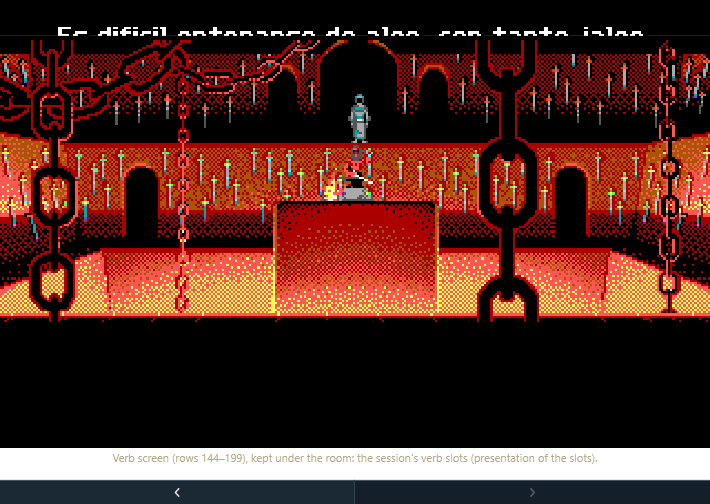
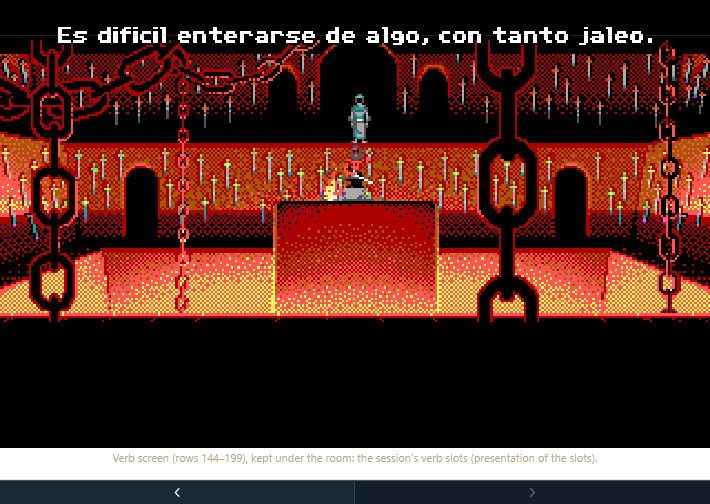
Draw whole the first line that starts on the text line
Room 41's two-line messages (the sword, object 634 verb 0x36) print at y 12
and 20. ScummVM clips the first line at the text screen's row 15, so only the
second line was readable. The line now runs on into the room's top rows
(reading of the original, labelled; the user chose it). TextLineCheck has a
sword step: 0 failures. Tests 230/230.

Changed region(s): [[0.062, 0.0595, 0.9296, 0.0893]]

diff --git a/src/SCUMMexplorer.Core/Rendering/LoomCharset.cs b/src/SCUMMexplorer.Core/Rendering/LoomCharset.cs
@@ -127,7 +127,8 @@ public static class LoomMessageRenderer
     /// <summary>
     /// ScummVM <c>initScreens(16, 144)</c> for v3 (<c>gfx.cpp</c>): the text screen is rows 0–15,
     /// the room (main) screen rows 16–143, so screen row y is room row y − 16, and the verb
-    /// screen rows 144–199. <c>printChar</c> draws at <c>_top - vs-&gt;topline</c> and clips at the screen's bottom.
+    /// screen rows 144–199. <c>printChar</c> draws at <c>_top - vs-&gt;topline</c> and clips at the screen's bottom
+    /// (the text screen's lines are the exception here: they run on into the room, see <c>PrintChar</c>).
     /// </summary>
     public const int RoomScreenTop = 16;
     public const int VerbScreenTop = 144;
@@ -213,9 +214,12 @@ public static class LoomMessageRenderer
         if (glyph == '@') return false;
         var width = charset.CharWidth(glyph);
         if (left + width > right + 1) return false;
-        // findVirtScreen(top): the text, room or verb screen, each clipped at its bottom.
+        // findVirtScreen(top): the text, room or verb screen, each clipped at its bottom. Exception (reading, not
+        // ScummVM): a line whose top is in the text screen runs on into the room's top rows. ScummVM clips it at
+        // row 15, which leaves the first line of Room 41's two-line messages (script 016 with y 12) at its top
+        // 4 rows; the original is read as drawing the whole line.
         var screenTop = top >= VerbScreenTop ? VerbScreenTop : top >= RoomScreenTop ? RoomScreenTop : 0;
-        var screenBottom = top >= VerbScreenTop ? ScreenHeight : top >= RoomScreenTop ? VerbScreenTop : RoomScreenTop;
+        var screenBottom = top >= VerbScreenTop ? ScreenHeight : VerbScreenTop;
         if (top < 0 || top >= ScreenHeight) return false;
         DrawBits1(layer, charset.Glyph(glyph), left, top, width, LoomCharset.GlyphRows, color, shadow, screenTop, screenBottom);
         left += width;

diff --git a/.verification/text-line/TextLineCheck/Program.cs b/.verification/text-line/TextLineCheck/Program.cs
@@ -82,6 +82,25 @@ internal static class Program
                     $"the verb screen starts where the room ends (y {verbTop:0.#} vs {viewTop + viewport.ActualHeight:0.#}): one screen, no gap");
                 Save((FrameworkElement)window.FindName("RoomDisplayGroup"), "room41-before.png");
 
+                // The sword (object 634 verb 0x36): two lines at y 12 and 20. Line 1 starts on the text line and is
+                // drawn whole (reading of the original; ScummVM clips it at row 15), so its lower rows reach room rows
+                // 0–3, which line 2 (from room row 4) cannot.
+                Session().ActivateObjectVerb(634, 0x36);
+                Call("UpdateMessageLayer");
+                await Task.Delay(300);
+                window.UpdateLayout();
+                foreach (var message in Session().Messages.OnScreen) report.Add($"   on screen: \"{message.Text.Replace("\n", " / ")}\" at ({message.X}, {message.Y}) from {message.Source}");
+                var roomText = ((Image)window.FindName("RoomMessageOverlay")).Source as BitmapSource;
+                var topRowsLit = 0;
+                if (roomText is not null)
+                {
+                    var pixels = new byte[roomText.PixelWidth * 4 * 4];
+                    roomText.CopyPixels(new Int32Rect(0, 0, roomText.PixelWidth, 4), pixels, roomText.PixelWidth * 4, 0);
+                    for (var i = 3; i < pixels.Length; i += 4) if (pixels[i] != 0) topRowsLit++;
+                }
+                Check(topRowsLit > 30, $"the sword's first line runs on into the room's rows 0–3 ({topRowsLit} lit pixels there)");
+                Save((FrameworkElement)window.FindName("RoomDisplayGroup"), "room41-look-634-sword.png");
+
                 Session().ActivateObjectVerb(632, 0x36);
                 Call("UpdateMessageLayer");
                 await Task.Delay(300);

diff --git a/tests/SCUMMexplorer.Tests/LoomCharsetTests.cs b/tests/SCUMMexplorer.Tests/LoomCharsetTests.cs
@@ -58,18 +58,19 @@ public sealed class LoomCharsetTests
     }
 
     [Fact]
-    public void EachVirtualScreenClipsTextAtItsOwnBottom()
+    public void RoomAndVerbScreensClipTextAtTheirBottomAndTextLineRunsOn()
     {
         if (!File.Exists(Path.Combine(Folder, "99.LFL"))) return;
         var charset = LoomCharset.TryLoad(Folder, 0, out _)!;
         // initScreens(16, 144): the text screen is rows 0–15 and the room screen rows 16–143.
-        // A line whose top is in the text screen stops at row 15 (printChar clips at vs->h).
+        // ScummVM clips a line whose top is in the text screen at row 15; the app draws it whole (reading of
+        // the original, Room 41's y 12), so its glyphs reach past row 15 into the room.
         var glyphs = "AAAA"u8.ToArray();
         LoomMessage At(int y) => new(LoomMessageKind.Drawn, LoomMessageTable.NoActor, 1, [glyphs],
             10, y, false, 0, LoomMessageTable.DefaultRight, 15, null, "test", 0, 0, null);
         var inText = LoomMessageRenderer.Render(At(12), charset).Bounds!.Value;
         Assert.Equal(12, inText.Top);
-        Assert.Equal(LoomMessageRenderer.RoomScreenTop, inText.Bottom);
+        Assert.True(inText.Bottom > LoomMessageRenderer.RoomScreenTop);
         var inRoom = LoomMessageRenderer.Render(At(140), charset).Bounds!.Value;
         Assert.Equal(LoomMessageRenderer.VerbScreenTop, inRoom.Bottom);
     }

diff --git a/docs/LOOM_SCRIPT_MAP.md b/docs/LOOM_SCRIPT_MAP.md
@@ -120,7 +120,7 @@ Last updated 28 September 2026 (M1a: messages, talk delay and `waitFor message` 
 - **Text slots** (ScummVM `decodeParseString`): actor 0xFE uses slot 1 (`drawString`: drawn at once, no delay, stays until the room is redrawn), 0xFD slot 2 (a debug message), 0xFC slot 3 (a message dialog), every other value slot 0 (`actorTalk`). Each print starts from the slot's defaults, and v1–v3 keep the position, height and colour as the defaults afterwards, but not the centring. So a print with no position uses the last print's (ScummVM notes that LOOM needs this). Defaults at the start: (0, 0), height 0, colour 15, right edge 319.
 - **Talk** (ScummVM `actorTalk`, `displayDialog`, `stopTalk`, v3): a print for an actor who is not in the current room shows nothing. Otherwise the text's colour is the actor's `talkColor` (15 after `initActor`; script 017 sets 0x8F for the ego), or the slot's colour for actor 0xFF. `VAR_HAVE_MSG` becomes 0xFF, and `displayDialog` draws the text up to its end or a wait code (`0xFF 0x03`), with a talk delay of 60 jiffies (v3 has no `VAR_DEFAULT_TALK_DELAY`) plus `VAR_CHARINC` (`var[0x025]`, 5 after the boot) per character; new lines add nothing. Each frame the delay goes down by the frame's jiffies (`VAR_TIMER_NEXT`, 6) before the scripts run; at 0, the next chunk shows, or `stopTalk` erases the text and clears `_haveMsg`. `startScene` stops the talk. "Amanecer." (9 characters) lasts 105 jiffies: 17 frames on the screen, gone in the 18th. Modelled 28 Sep (`LoomMessageTable`).
 - **Screen rows** (ScummVM `initScreens(16, 144)` for v3, `gfx.cpp`): three virtual screens: text rows 0–15, room (main) rows 16–143, verb rows 144–199. `printChar` draws at `_top - vs->topline` and clips at the screen's bottom, so a message at screen y is on room row y − 16 ("Amanecer." at y 112 is room row 96), and a line that starts in one screen does not spill into the next. Only v7+ resizes the main screen to the room (`initBGBuffers`), so LOOM shows 128 room rows although its room images are 144 high (Room 02's header: 960 × 144); the last 16 are never on screen (reading). The x coordinate is relative to the camera's left edge (`virtscr[0].xstart`, camera x − 160). ScummVM; used by the renderer and the app since 28 Sep (M1b placed room text 16 rows too low).
-- **Where LOOM's texts land** (decoded, 29 Sep): script 016's argument (the rooms' default y) is 0x10 in most rooms (the room's first row), 0x28, 0x70 or 0x78 in some, 8 in Room 08 and 0x0C in Room 41: only those two start text on the text line (rows 0–15), where a glyph is clipped at row 15 (ScummVM `drawBits1` on the one-buffer text screen), so a line at y 12 shows its top 4 rows. No `print` names a literal y below 16. Talk in cutscenes is often at y 152 (script 046 +0x002F; the opening's cliff lines, script 044 +0x0587), in the verb screen under the picture. The fairy's text in Room 53 is at y 48 (script 044 +0x03F0). The app shows the text line above the room since 29 Sep.
+- **Where LOOM's texts land** (decoded, 29 Sep): script 016's argument (the rooms' default y) is 0x10 in most rooms (the room's first row), 0x28, 0x70 or 0x78 in some, 8 in Room 08 and 0x0C in Room 41: only those two start text on the text line (rows 0–15), where ScummVM clips a glyph at row 15 (`drawBits1` on the one-buffer text screen), so a line at y 12 shows its top 4 rows there. Room 41's two-line messages (for example the sword, object 634 verb 0x36, lines at y 12 and 20) then show little more than their second line. Since 29 Sep the app draws a line that starts on the text line whole, running on into the room's rows 0–3 (reading of the original: the designers would not ship half-hidden first lines; not checked in the original interpreter; the user chose it). No `print` names a literal y below 16. Talk in cutscenes is often at y 152 (script 046 +0x002F; the opening's cliff lines, script 044 +0x0587), in the verb screen under the picture. The fairy's text in Room 53 is at y 48 (script 044 +0x03F0). The app shows the text line above the room since 29 Sep.
 - **Object names and the close-up** (decoded, scripts 007/008): when the chosen object changes, script 008 turns verb 0x36 off and runs `drawBox 232, 152, 312, 192, 0` (a black box over the close-up and name area), then turns verb 0x36 on at (248, 152) with the new object's close-up (`var[0x068]`, from its verb 0x39). Script 007 +0x001E (or 008 +0x004E) prints the name with `print 0xFE`, centred at (272, 181), over the close-up's lower edge. ScummVM `o5_drawBox` paints the box on its virtual screen, covering drawn strings; the session models that since 28 Sep (`LoomMessageTable.DrawBox`).
 - **Talk-stop key** (ScummVM `processKeyboard`, '.'): sets `_talkDelay` to 0, so the next frame ends the message or shows its next chunk. The app sends it when the user clicks talk text (assumed input). ScummVM.
 - **Colour bits** (ScummVM `CharsetRendererV3::setColor` for LOOM v3): the low 4 bits are the EGA colour; 0x80 adds a shadow and 0x40 an outline in colour 0 (not for drawn strings in the room screen). The ego's 0x8F is white with a shadow.

diff --git a/.verification/text-line/validation.md b/.verification/text-line/validation.md
@@ -54,3 +54,44 @@ The user's report (29 Sep): text could show where the game shows it, over the ro
 - PresentationCheck and CameraPanCheck: 0 failures.
 - `dotnet build SCUMMexplorer.slnx`: 0 warnings. Tests: 230/230.
 - Skipped (no change to clicks, room loads or playback): DoorwayClickCheck, the audit, Blockers, the playback checks.
+
+## Follow-up: whole first lines (29 September)
+
+The user's report: "when I select the sword, I only see a line of text that seems to be a continuation of another".
+The user also confirmed the cutscene sound (AdLib music; the sword's effect is the PC speaker rendition, as labelled)
+and that the conversations in the verb area (y 152, the game's position) look right.
+
+### What the evidence says
+
+- The sword is Room 41's object 634; verb 0x36 prints `print 0x01, [center; text, "Cuando termine de darle golpes,
+  menuda\xFF\x01espada va a tener."]` with no position, so it takes text slot 0's default: y 12 (Room 41's entry,
+  `startScript 0x10, [0x000C]`). Line 1 is at y 12 (text line), line 2 at y 20 (the room's row 4).
+- ScummVM draws each glyph in the screen that holds `_top` and clips at that screen's bottom
+  (`CharsetRendererV3::printChar`, `CharsetRendererPC::drawBits1`: `y + drawTop < dest.h`; the text screen is 16
+  rows, `initScreens(16, 144)`). No LOOM-specific adjustment exists in `string.cpp`, `charset.cpp` or `gfx.cpp`. So
+  in ScummVM line 1 keeps its top 4 rows, which the app copied: the user saw only line 2.
+- Reading (not verified in the original interpreter): the designers set y 12 for the forge and would not ship
+  half-hidden first lines, so the original likely drew line 1 whole across the boundary. The user chose to draw it
+  whole.
+
+### What the user now sees
+
+- In Room 41 (and Room 08, the other room whose default y is below 16), a line that starts on the text line is drawn
+  whole: its lower rows cover the room's top rows. The sword now reads "Cuando termine de darle golpes, menuda" /
+  "espada va a tener." ([picture](room41-look-634-sword.png)).
+- Unchanged: the room and verb screens still clip at their own bottoms, as in ScummVM; message positions.
+
+### Changes
+
+- `LoomCharset.cs` (`LoomMessageRenderer.PrintChar`): a glyph whose top is in the text screen is clipped at the
+  room screen's bottom (row 143) instead of row 15. Labelled a reading in the code.
+- `LoomCharsetTests`: the text-screen case now expects the line to reach past row 15.
+- TextLineCheck: a new sword step (object 634 verb 0x36 run directly, an exploration action).
+
+### Verification
+
+- TextLineCheck: 0 failures ([text-line-check.txt](text-line-check.txt)); the sword's first line lights 742 pixels in
+  the room's rows 0–3, where line 2 cannot reach.
+- `dotnet build SCUMMexplorer.slnx`: 0 warnings. Tests: 230/230.
+- Skipped: the audit (room gaps do not depend on messages), DoorwayClickCheck, Blockers, the playback and layout
+  checks (no change to clicks, room loads, playback or layout).

diff --git a/docs/LOOM_EGA_PLAN.md b/docs/LOOM_EGA_PLAN.md
@@ -64,6 +64,7 @@ Each milestone ends with something the user can see in the running app, verified
 - **Cutscene layout. Done 29 September ([validation](../.verification/cutscene-layout/validation.md)).** From the user's report: the room keeps one size and position while a cutscene plays (the verb screen is always kept under the room in the interactive mode, the arrow row keeps its space and hides its arrows while the player has no control, the controls keep a minimum height), and disabled buttons are dark. The user decided (29 Sep) that the app does not start with the opening; an option may come later.
 - **Sound in cutscenes. Done 29 September ([validation](../.verification/cutscene-sound/validation.md)).** A separate scene sound player (`SceneSoundPlayer`) plays the sounds the session's scripts start and stop on the playback clock: the opening's sound 25, the trial's music 31, its notes 8, 4, 5, 1 and cues 23, 16, 17, Room 37's 27. Music plays as the AdLib rendition; the game's AdLib effects are not decoded, so effects play as the PC speaker rendition (presentation). SceneSoundCheck: the app's starts and stops match the reached events frame for frame (1 in the opening's first 20 s, 28 in 2,500 frames of the trial). The room music panel is untouched.
 - **The text line. Done 29 September ([validation](../.verification/text-line/validation.md)).** The user picked text position next. ScummVM and the decoded prints: messages go where their slot's position puts them; the trial's lines are at y 152 (script 046 +0x002F), in the verb screen as in the game. What was missing: the text line (rows 0–15), where Room 41's lines start (script 016 with y 12). The interactive mode now keeps the text line above the room, draws text there in the game's font, and shows the three screens with no gap. TextLineCheck 0; CutsceneLayoutCheck, VerbAreaCheck (updated), PresentationCheck, CameraPanCheck 0.
+- **Whole first lines on the text line. Done 29 September ([validation](../.verification/text-line/validation.md#follow-up-whole-first-lines-29-september)).** The user's report: the sword in Room 41 showed only its second line. ScummVM clips a line that starts on the text line at row 15; the app now draws it whole into the room's top rows (reading of the original, labelled). The user confirmed the cutscene sound and the verb-area conversations (y 152, the game's position). TextLineCheck 0 (new sword step). Tests 230/230.
 - **Next:** why the game's click on Room 36's exit does not leave the room after a catalog visit, then more known cutscenes. The user's other issues wait for their pick: Hetchel as the swan, depth masks, distaff shine, keys for spells.
 - **Verification:** Room 10 object 295 plays script 052 through Room 11 into Room 13, with actors (done, M3c). Escape skips to Room 13 (done, M3c). The boot's opening cutscene (script 044) plays in Rooms 01, 02, 53 and 02 (done, 29 Sep: Rooms 01, 02, 01, 02, 53, 02).
 

diff --git a/docs/CHANGELOG.md b/docs/CHANGELOG.md
@@ -79,6 +79,7 @@ Unless noted, "no physical input" applies: the WPF harnesses drive the real wind
 | Cutscene layout (user report) | In the interactive mode the room keeps one size and position through a cutscene: the verb screen is always under the room (black when empty), the scroll-arrow row keeps its space and the arrows are hidden while the player has no control, and the controls below keep a minimum height. Disabled buttons are dark. New CutsceneLayoutCheck: 6 failures before, 0 after (one size in the opening and the trial); VerbAreaCheck 0 (two checks updated for the kept verb screen); PresentationCheck and CameraPanCheck 0 | [cutscene-layout](../.verification/cutscene-layout/validation.md) |
 | Sound in cutscenes (user report) | While the playback clock runs, each sound a script starts plays from the frame that reached it, `stopSound`/`stopMusic` stop them, pause pauses them. Music as AdLib, effects as the PC speaker rendition (AdLib effects not decoded; labelled). New SceneSoundCheck: 0 failures (opening 1/1, trial 28/28 starts and stops on the same frames; the opening's music audible). Tests 230/230 | [cutscene-sound](../.verification/cutscene-sound/validation.md) |
 | The text line (user report) | Checked against ScummVM first: messages are placed as the scripts say (the trial's at y 152, in the verb screen as in the game). The interactive mode now keeps the game's text line (rows 0–15) above the room and draws text there (Room 41's lines, y 12); text line, room and verb screen touch as one screen. New TextLineCheck 0; CutsceneLayoutCheck, VerbAreaCheck (expected scale updated), PresentationCheck, CameraPanCheck 0. Tests 230/230 | [text-line](../.verification/text-line/validation.md) |
+| Whole first lines on the text line (user report) | Room 41's two-line messages (the sword) lost their first line: ScummVM clips a line starting at y 12 at the text screen's row 15. The app now draws such a line whole into the room's top rows (reading of the original, labelled; the user chose it). TextLineCheck 0 with a new sword step (742 lit pixels in room rows 0–3). Tests 230/230 | [text-line](../.verification/text-line/validation.md#follow-up-whole-first-lines-29-september) |
 
 ## State at the end of 28 September
 
